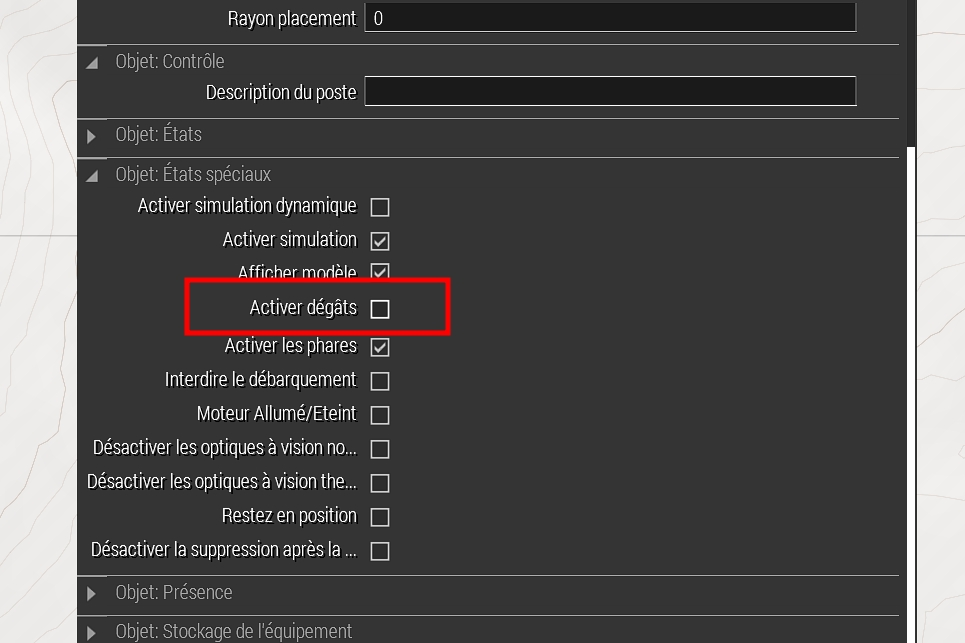
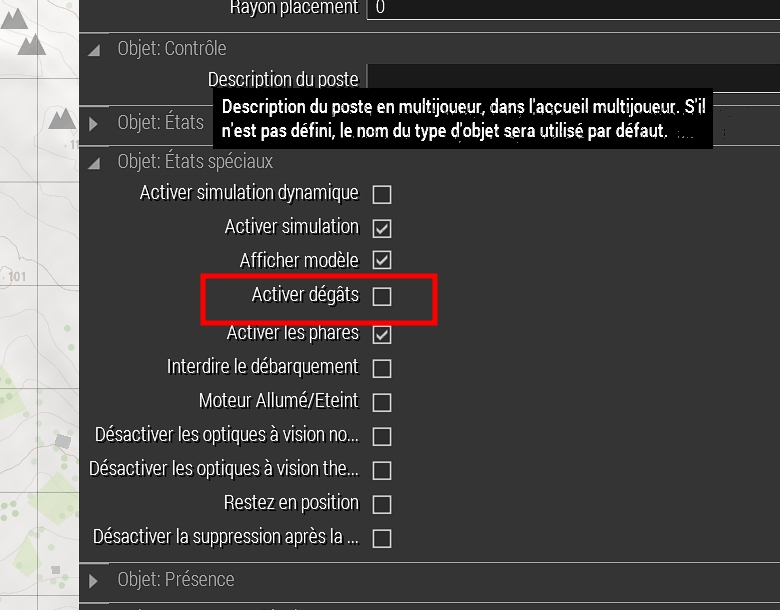
correction du readme

Changed region(s): [[0.0, 0.0, 1.0, 1.0], [0.0, 0.4361, 0.0308, 0.4672]]

diff --git a/fn_zoneCouvertureDrone/readme.md b/fn_zoneCouvertureDrone/readme.md
@@ -23,6 +23,9 @@ On positionne le drone loin de la zone de couverture du drone. On décoche la ca
 | ![capture001](Capture001.jpg) |
 | :---------------------------: |
 
+| ![capture001bis](Capture001bis.jpg) |
+| :---------------------------------: |
+
 ### Le marqueur, le déclencheur et le deuxième waypoint
 
 On positionne un marqueur "zoneCouvertureDrone", un déclencheur "fn_zoneCouvertureDrone" et le deuxieme waypoint, exactement au meme endroit. (pas comme sur la capture)
